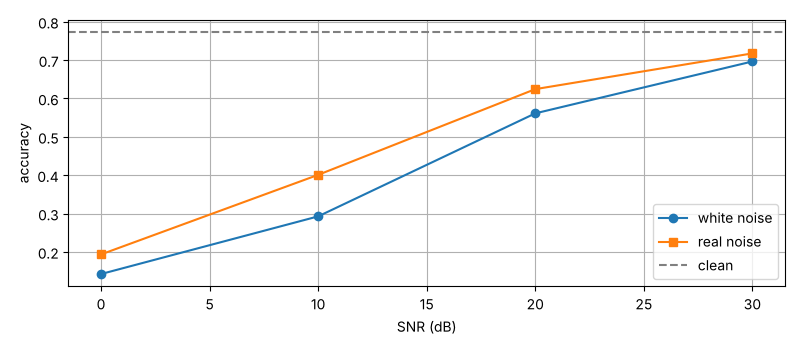
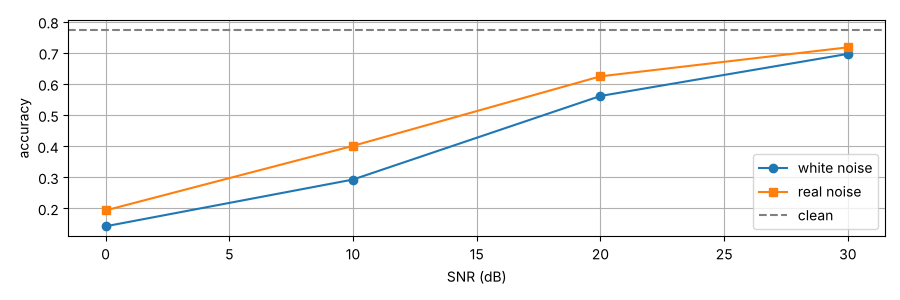
Make accuracy plot shorter
Claude-Session: https://claude.ai/code/session_016g9LRapGJkNXDHXBTrJh4x

Changed region(s): [[0.0, 0.03, 1.0, 0.9], [0.5, 0.9, 0.5625, 0.96]]

diff --git a/main.py b/main.py
@@ -217,7 +217,7 @@ plt.savefig("results/clean_vs_noisy.png")
 plt.close()
 
 # Plot: accuracy vs SNR
-plt.figure(figsize=(8, 3.5))
+plt.figure(figsize=(9, 3))
 plt.plot(SNRS, accuracy["white"], "o-", label="white noise")
 plt.plot(SNRS, accuracy["real"], "s-", label="real noise")
 plt.axhline(clean_acc, color="gray", linestyle="--", label="clean")
